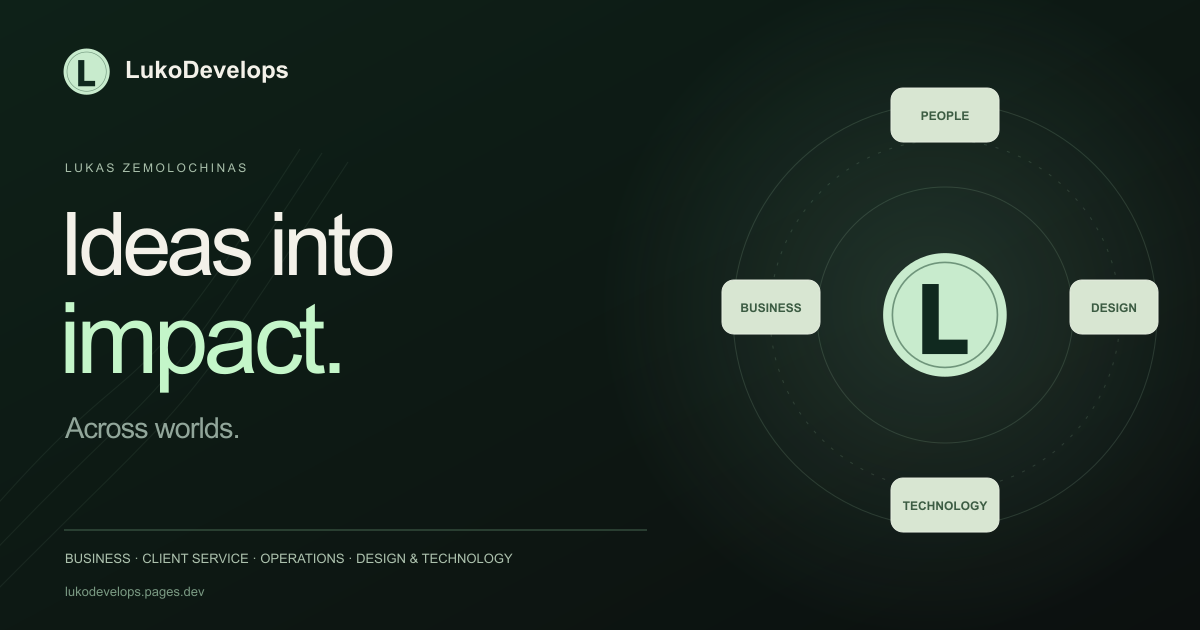
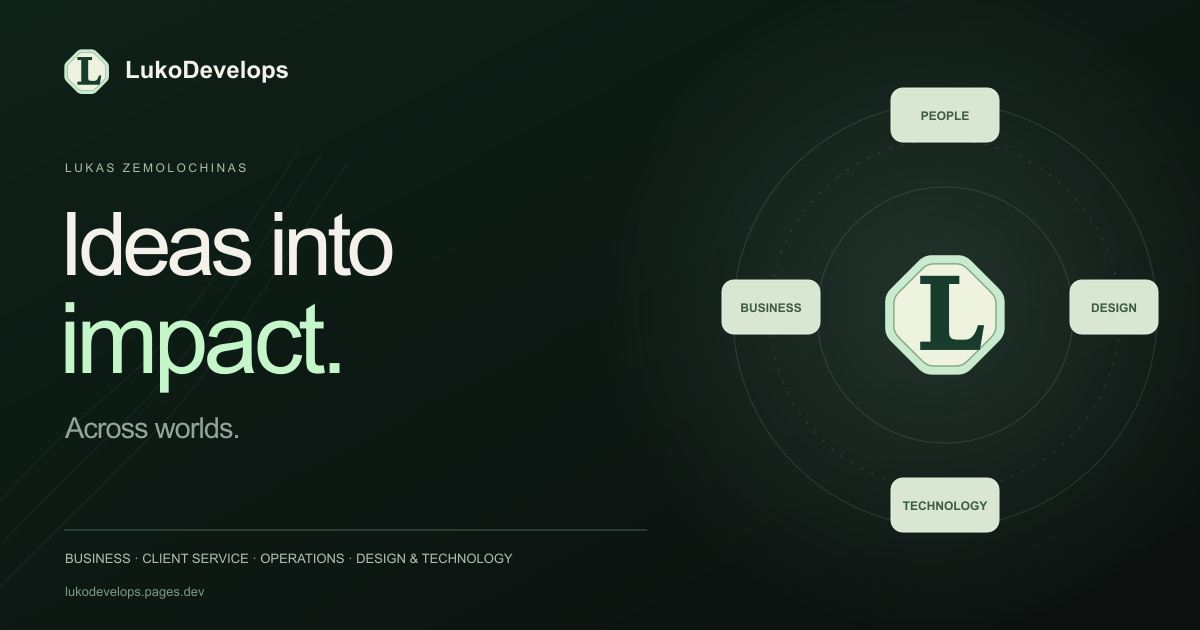
Refine personal medallion and synchronize branded career documents

Changed region(s): [[0.74, 0.3921, 0.8325, 0.6032], [0.0308, 0.0603, 0.0925, 0.1508]]

diff --git a/src/Monogram.tsx b/src/Monogram.tsx
@@ -1,4 +1,4 @@
-/** One flat, circular identity mark, shared with the career documents. */
+/** Shared, native-vector geometry for the softly faceted personal mark. */
 export function Monogram({ className = "" }: { className?: string }) {
   return (
     <svg
@@ -7,16 +7,21 @@ export function Monogram({ className = "" }: { className?: string }) {
       aria-hidden="true"
       focusable="false"
     >
-      <circle cx="32" cy="32" r="30" fill="#C8EBCD" />
-      <circle
-        cx="32"
-        cy="32"
-        r="25.5"
-        fill="none"
-        stroke="#6F957B"
+      <path
+        d="M26 3 L38 3 C41 3 43 4 45 6 L58 19 C60 21 61 23 61 26 L61 38 C61 41 60 43 58 45 L45 58 C43 60 41 61 38 61 L26 61 C23 61 21 60 19 58 L6 45 C4 43 3 41 3 38 L3 26 C3 23 4 21 6 19 L19 6 C21 4 23 3 26 3 Z"
+        fill="#C8EBCD"
+      />
+      <path
+        d="M26 3 L38 3 C41 3 43 4 45 6 L58 19 C60 21 61 23 61 26 L61 38 C61 41 60 43 58 45 L45 58 C43 60 41 61 38 61 L26 61 C23 61 21 60 19 58 L6 45 C4 43 3 41 3 38 L3 26 C3 23 4 21 6 19 L19 6 C21 4 23 3 26 3 Z"
+        transform="translate(4.64 4.64) scale(0.855)"
+        fill="#EEF3DF"
+        stroke="#88A28A"
         strokeWidth=".8"
       />
-      <path d="M21 17H29V44H43V51H21Z" fill="#10291F" />
+      <path
+        d="M20 13 L39 13 L39 17 L34 17 L34 40 C34 43 35 44 38 44 L42 44 C45 44 47 41 48 37 L51 37 L49 49 L20 49 L20 45 L25 45 L25 17 L20 17 Z"
+        fill="#183D2C"
+      />
     </svg>
   );
 }

diff --git a/README.md b/README.md
@@ -6,7 +6,7 @@ Personal portfolio for Lukas Zemolochinas / LukoDevelops, with interactive 3D ar
 
 The portfolio now leads with cross-industry experience in business ownership, client relationships, operations, sales, design, analytics, and technology. Historical job titles stay accurate. All six roles sit in one expandable career journey; education states that University of London coursework, credits, and the final project are complete, with results and the formal degree award pending until December 2026. Toronto Mississauga is transfer coursework without a degree.
 
-Visitors can explore four career perspectives, six industry families with 25 selectable sector contexts, four skill groups, and an interactive working-method console. Family and sector choices reveal confirmed client/work context; their career links open and focus the relevant experience entry. The 3D keyboard connects to a mix of professional and technical skills. The atlas uses a compact two-column family directory on phones. A shared, flat circular L seal is used in the header, atlas, passport, favicon, and social card; the sculpted keyboard remains an interactive feature. The green ticker is straight with explicit vertical clearance. The original scene artwork, cursor preferences, animation pause, responsive project catalogue, and accessible native project dialogs remain in place.
+Visitors can explore four career perspectives, six industry families with 25 selectable sector contexts, four skill groups, and an interactive working-method console. Family and sector choices reveal confirmed client/work context; their career links open and focus the relevant experience entry. The 3D keyboard connects to a mix of professional and technical skills. The atlas uses a compact two-column family directory on phones. A shared, softly faceted medallion with a custom serif L is used in the header, atlas, passport, favicon, and social card; the sculpted keyboard remains an interactive feature. The green ticker is straight with explicit vertical clearance. The original scene artwork, cursor preferences, animation pause, responsive project catalogue, and accessible native project dialogs remain in place.
 
 The new Coordination Studio explores three career chapters: Skyline Dynamics, the Upwork agency, and Bison Onward. Selecting a chapter changes the scale, responsibilities, and context; selecting a network node or workstream reveals real examples. A four-position delivery slider follows understand / organize / coordinate / follow-through and updates the selected node and detail. The layered network uses native SVG and CSS perspective, with lightweight pointer tilt and flowing connections, rather than an additional WebGL context. Reduced motion and the site's animation control freeze decorative movement without removing the controls.
 
@@ -90,7 +90,7 @@ The cross-industry 2026 resume and cover letter are available in `public/documen
 
 ### October 6, 2026 leadership and identity refinement
 
-- TypeScript checking and the production build pass; public and built career PDFs exactly match the finalized parent documents. The SVG favicon and 1200 × 630 share-card PNG use the shared circular seal.
+- TypeScript checking and the production build pass; public and built career PDFs exactly match the finalized parent documents. The SVG favicon and 1200 × 630 share-card PNG use the shared softly faceted medallion.
 - Chrome checks at 320, 390, 640, 768, 1024, and 1920 px found no horizontal page overflow; sector and studio panels stayed contained. The ticker is straight and has 42 px phone / 54 px desktop clearance below it.
 - All three leadership chapters, secondary sector controls, the Consulting-to-Bison career link, focused experience opening, Home / End keyboard control of the delivery slider, and animation pause passed.
 - Decorative network layers do not intercept controls. Pointer clicks on the Priorities and Business nodes passed after that fix.
